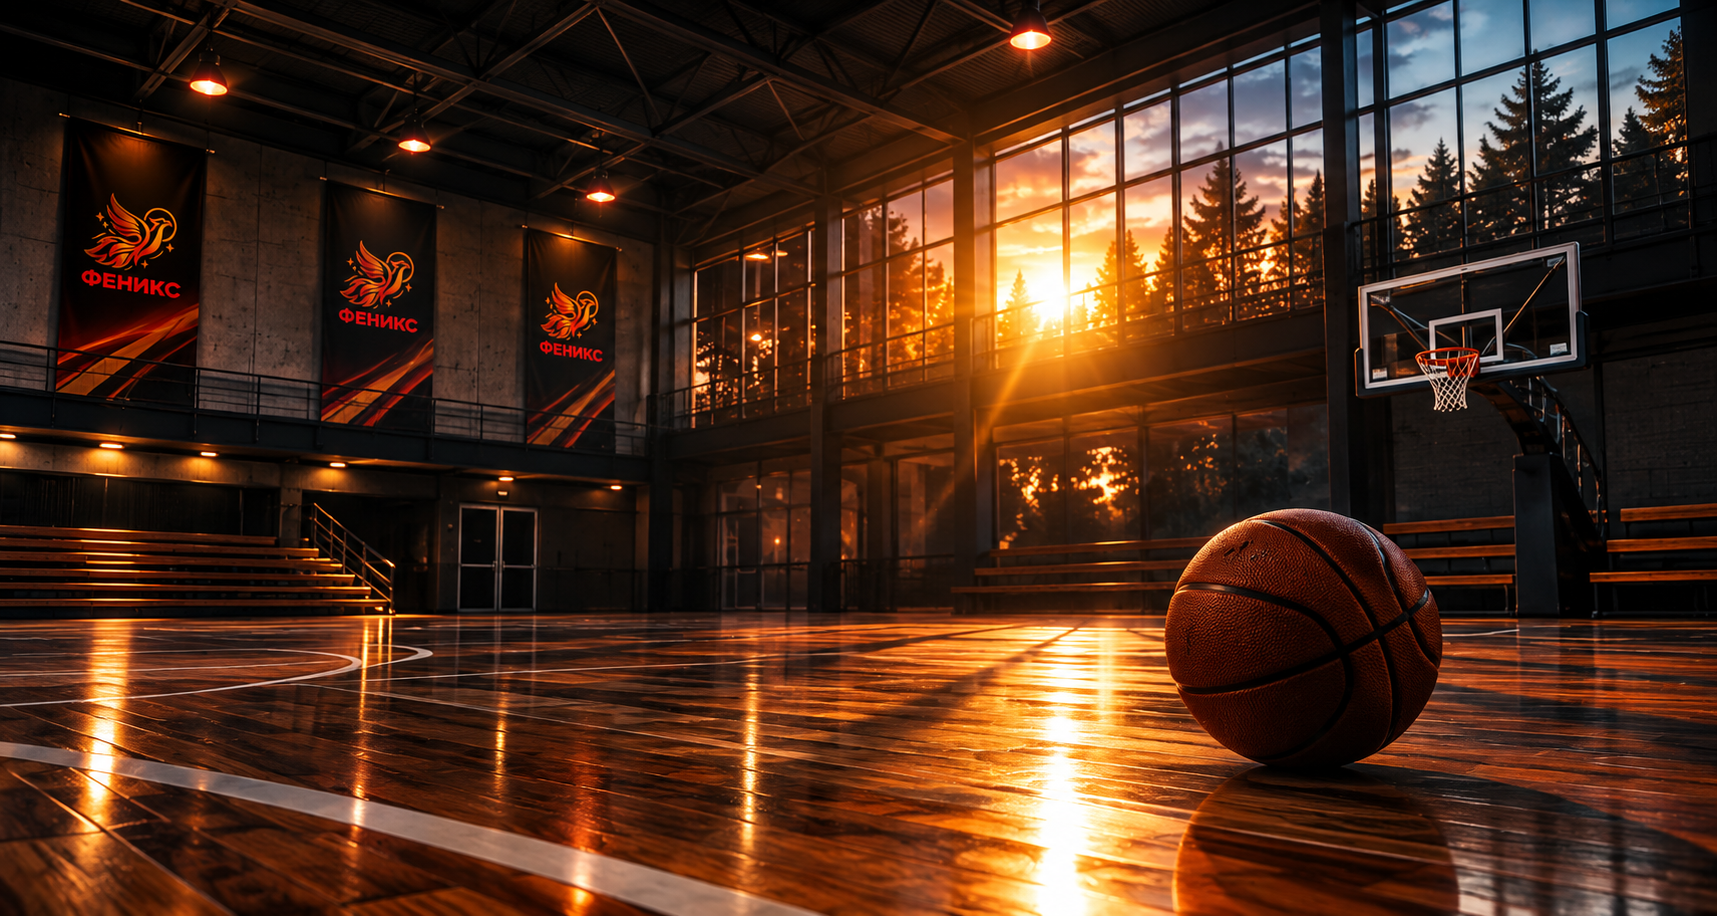
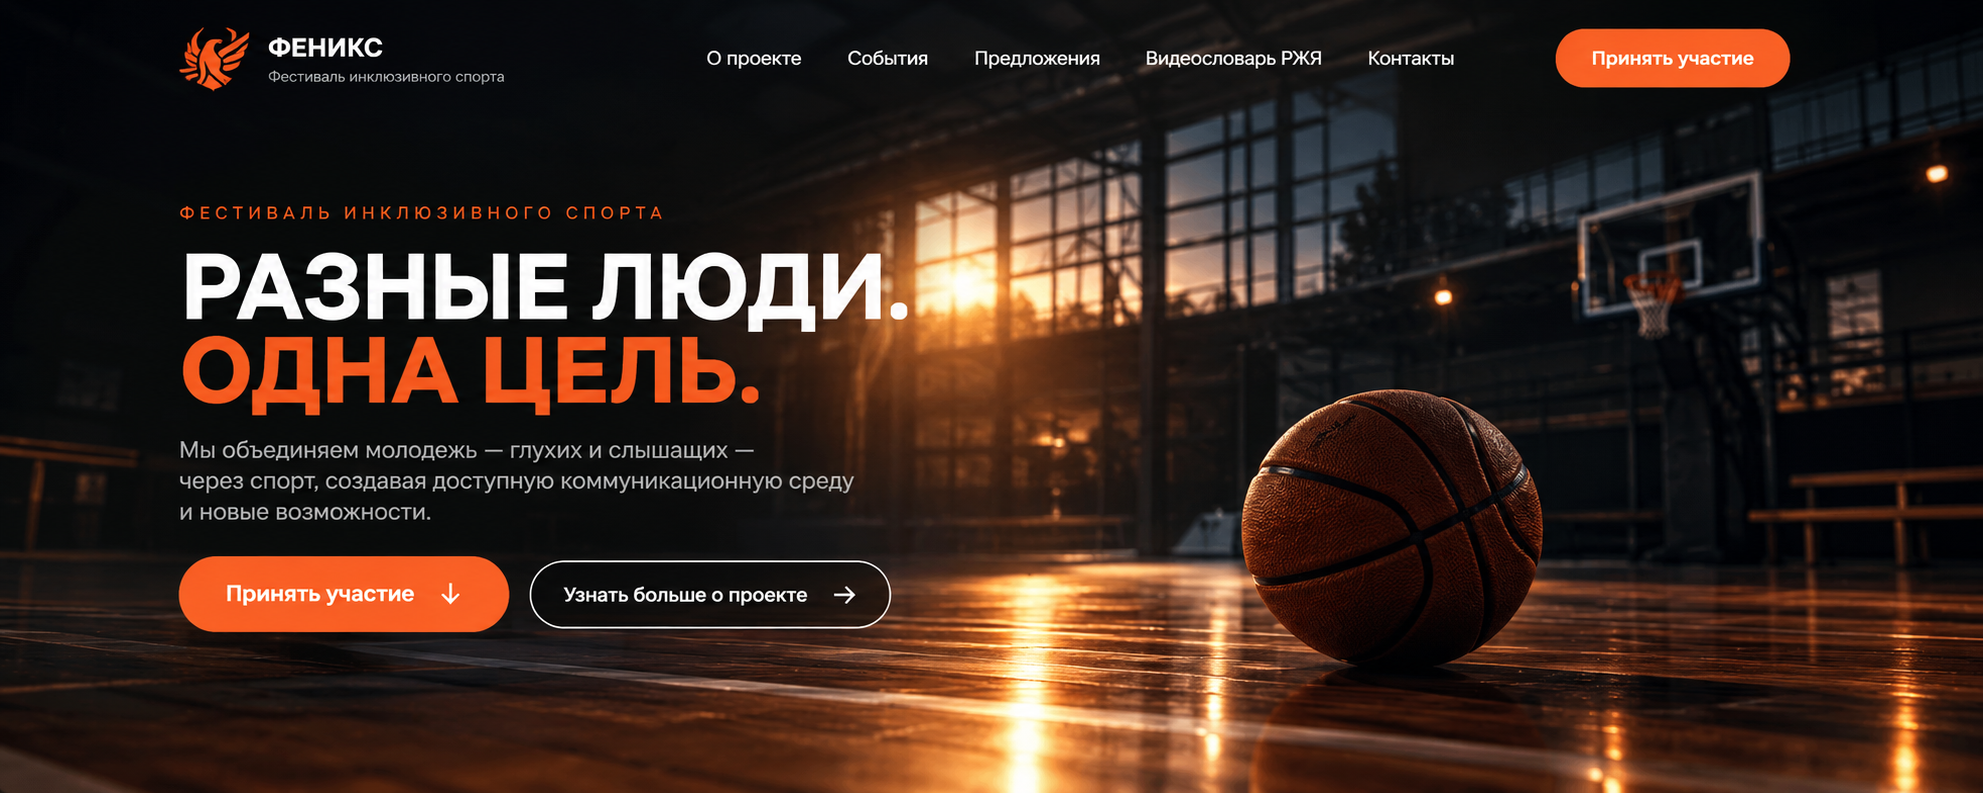
Add files via upload

diff --git a/index.html b/index.html
@@ -53,13 +53,13 @@
         <p class="eyebrow">О ПРОЕКТЕ</p>
         <h2>Спорт, в котором мы понимаем друг друга</h2>
       </div>
-      <p class="intro">«Феникс» — фестиваль инклюзивного спорта, который объединяет глухую, слабослышащую и слышащую молодёжь через спорт, общение и совместные события.</p>
+      <p class="intro">«Феникс» - фестиваль инклюзивного спорта, который объединяет глухих, слабослышащих и слышащих молодых людей через спорт, общение и совместные события.</p>
     </div>
     <div class="about-story">
       <article><span>01</span><h3>Что такое «Феникс»</h3><p>Пространство, где молодые люди встречаются на тренировках, соревнованиях и фестивальных событиях, знакомятся и становятся одной командой.</p></article>
       <article><span>02</span><h3>Наша цель</h3><p>Создавать доступную коммуникационную среду и условия, в которых глухие, слабослышащие и слышащие участники могут заниматься спортом вместе.</p></article>
       <article><span>03</span><h3>Для кого</h3><p>Для молодёжи с разным слуховым статусом и уровнем спортивной подготовки. Важнее всего желание участвовать, общаться и пробовать новое.</p></article>
-      <article><span>04</span><h3>Что происходит</h3><p>Тренировки, соревнования, фестивальные встречи, новые спортивные форматы и видео-словарь РЖЯ для более понятной коммуникации.</p></article>
+      <article><span>04</span><h3>Что происходит</h3><p>Тренировки, соревнования, фестивальные встречи, новые спортивные форматы и видеословарь русского жестового языка для более понятной коммуникации.</p></article>
     </div>
     <div class="project-team">
       <div class="team-title"><span class="eyebrow">КОМАНДА ПРОЕКТА</span><h2>Команда «Феникса»</h2></div>

diff --git a/styles.css b/styles.css
@@ -615,3 +615,45 @@ img,video,iframe{max-width:100%}
 .selected-event strong { display:block; font-size:18px; margin-bottom:6px; }
 .selected-event span { display:block; opacity:.72; font-size:14px; }
 .dictionary { min-height: calc(100vh - 180px); padding-top: 150px; }
+
+/* V20 desktop — smooth transition from dark hero into About section */
+@media (min-width: 721px){
+  .hero::after{
+    content:"";
+    position:absolute;
+    left:0;right:0;bottom:-1px;
+    height:150px;
+    z-index:1;
+    pointer-events:none;
+    background:linear-gradient(to bottom,rgba(5,5,5,0),rgba(5,5,5,.18) 28%,rgba(245,238,232,.72) 74%,#fff 100%);
+  }
+  .about-v15{
+    position:relative;
+    margin-top:-2px;
+    padding-top:86px;
+    overflow:hidden;
+    background:
+      radial-gradient(ellipse at 88% 0%,rgba(255,103,24,.10),transparent 34%),
+      linear-gradient(180deg,#fff 0%,#fffaf7 42%,#fff 100%);
+  }
+  .about-v15::before{
+    content:"";
+    position:absolute;
+    top:-58px;left:-4%;
+    width:108%;height:118px;
+    background:#fff;
+    border-radius:50% 50% 0 0 / 75% 75% 0 0;
+    transform:rotate(-1.2deg);
+    pointer-events:none;
+  }
+  .about-v15 > *{position:relative;z-index:1}
+  .about-head{grid-template-columns:1.05fr .95fr;gap:72px;align-items:end;margin-bottom:46px}
+  .about-head h2{max-width:780px;font-size:clamp(52px,4.7vw,78px);line-height:.98;letter-spacing:-.045em}
+  .about-head .intro{font-size:18px;line-height:1.65;color:#5d5d5d;max-width:610px}
+  .about-story{grid-template-columns:repeat(4,1fr);gap:0;border-top:1px solid #eee;border-bottom:1px solid #eee}
+  .about-story article{border:0;border-radius:0;background:transparent;padding:34px 30px 38px 0;min-height:260px}
+  .about-story article+article{border-left:1px solid #eee;padding-left:30px}
+  .about-story article>span{background:transparent;color:#ff6718;border:1px solid rgba(255,103,24,.45);width:46px;height:46px;border-radius:50%;font-size:13px}
+  .about-story h3{font-size:21px;margin:20px 0 10px}
+  .about-story p{font-size:15px;line-height:1.65;color:#686868}
+}
